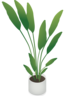
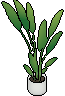
fix plant asset, decorate room

Changed region(s): [[0.0, 0.0, 0.9846, 1.0], [0.4308, 0.9375, 0.4615, 0.9688]]

diff --git a/game/app/server/models/FoyerRoomDecorator.js b/game/app/server/models/FoyerRoomDecorator.js
@@ -19,7 +19,8 @@ module.exports = class FoyerRoomDecorator extends RoomDecorator {
         "leftschedule_default0": "client/assets/walls/schedule1.png",
         "leftschedule_default1": "client/assets/walls/schedule2.png",
         "leftschedule_default2": "client/assets/walls/schedule3.png",
-        "rightwindow_default": "client/assets/windows/right_small_window_default.png",
+        "rightwindow_default0": "client/assets/windows/right_small_window_default0.png",
+        "rightwindow_default1": "client/assets/windows/right_small_window_default1.png",
         "leftconferencelogo_default0": "client/assets/logos/conferencelogo1.png",
         "leftconferencelogo_default1": "client/assets/logos/conferencelogo2.png",
         "leftconferencelogo_default2": "client/assets/logos/conferencelogo3.png",
@@ -84,7 +85,7 @@ module.exports = class FoyerRoomDecorator extends RoomDecorator {
 
         });
 
-        listOfGameObjects.push(objService.createPlant(Settings.FOYER_ID, this.#room.getWidth() - 1, 0, true));
+        listOfGameObjects.push(objService.createPlant(Settings.FOYER_ID, this.#room.getLength() - 1, 0, true));
 
         let conferenceLogos = objService.createLeftConferenceLogo(Settings.FOYER_ID, 1, 5, 14, -1, false);
         conferenceLogos.forEach(conferenceLogo => {
@@ -92,9 +93,11 @@ module.exports = class FoyerRoomDecorator extends RoomDecorator {
         });
 
         for (i = 0; i <= 1; i++) {
-            listOfGameObjects.push(objService.createRightWindow(Settings.FOYER_ID, 1, 1, this.#room.getLength(), i, false))
+            listOfGameObjects.push(objService.createRightWindowDefault0(Settings.FOYER_ID, 1, 1, this.#room.getLength(), i, false))
         }
 
+        listOfGameObjects.push(objService.createRightWindowDefault1(Settings.FOYER_ID, 1, 1, this.#room.getLength(), this.#room.getWidth() - 2, false))
+ 
         let wallFrames = objService.createRightWallFrame(Settings.FOYER_ID, 1, 3, this.#room.getLength(), 9, false);
         wallFrames.forEach(wallFrame => {
             listOfGameObjects.push(wallFrame);

diff --git a/game/app/server/models/FoodcourtRoomDecorator.js b/game/app/server/models/FoodcourtRoomDecorator.js
@@ -15,7 +15,7 @@ module.exports = class FoodcourtRoomDecorator extends RoomDecorator {
         "leftwall_default": "client/assets/walls/wall1.png",
         "rightwall_default": "client/assets/walls/wall2.png",
         "leftfoyerdoor_default": "client/assets/doors/door_foyer.png",
-        "rightwindow_default": "client/assets/windows/right_small_window_default.png",
+        "rightwindow_default0": "client/assets/windows/right_small_window_default0.png",
         "leftconferencelogo_default0": "client/assets/logos/conferencelogo1.png",
         "leftconferencelogo_default1": "client/assets/logos/conferencelogo2.png",
         "leftconferencelogo_default2": "client/assets/logos/conferencelogo3.png",
@@ -71,7 +71,7 @@ module.exports = class FoodcourtRoomDecorator extends RoomDecorator {
 
         for (i = 3; i <= 4; i++) {
             for (j = 0; j <= 5; j += 5) {
-                listOfGameObjects.push(objService.createRightWindow(Settings.FOYER_ID, 1, 1, this.#room.getLength(), i + j, false))
+                listOfGameObjects.push(objService.createRightWindowDefault0(Settings.FOYER_ID, 1, 1, this.#room.getLength(), i + j, false))
             }
         }
 

diff --git a/game/app/server/models/ReceptionRoomDecorator.js b/game/app/server/models/ReceptionRoomDecorator.js
@@ -16,7 +16,7 @@ module.exports = class ReceptionRoomDecorator extends RoomDecorator {
         "leftwall_default": "client/assets/walls/wall1.png",
         "rightwall_default": "client/assets/walls/wall2.png",
         "leftfoyerdoor_default": "client/assets/doors/door_foyer.png",
-        "rightwindow_default": "client/assets/windows/right_small_window_default.png",
+        "rightwindow_default0": "client/assets/windows/right_small_window_default0.png",
         "leftconferencelogo_default0": "client/assets/logos/conferencelogo1.png",
         "leftconferencelogo_default1": "client/assets/logos/conferencelogo2.png",
         "leftconferencelogo_default2": "client/assets/logos/conferencelogo3.png",
@@ -72,7 +72,7 @@ module.exports = class ReceptionRoomDecorator extends RoomDecorator {
         });
 
         for (i = 5; i < this.#room.getWidth() - 5; i++) {
-            listOfGameObjects.push(objService.createRightWindow(Settings.FOYER_ID, 1, 1, this.#room.getLength(), i, false))
+            listOfGameObjects.push(objService.createRightWindowDefault0(Settings.FOYER_ID, 1, 1, this.#room.getLength(), i, false))
         }
 
         //Get all npcs from service

diff --git a/game/app/server/services/GameObjectService.js b/game/app/server/services/GameObjectService.js
@@ -100,9 +100,14 @@ module.exports = class GameObjectService {
     }
 
     //Window
-    createRightWindow(roomId, width, length, xPos, yPos, solidity) {
+    createRightWindowDefault0(roomId, width, length, xPos, yPos, solidity) {
         this.checkParamTypes(roomId, width, length, xPos, yPos, solidity);
-        return new GameObject(this.#generateGameObjectID(), GameObjectType.RIGHTWALL, "rightwindow_default", width, length, new Position(roomId, xPos, yPos), solidity);
+        return new GameObject(this.#generateGameObjectID(), GameObjectType.RIGHTWALL, "rightwindow_default0", width, length, new Position(roomId, xPos, yPos), solidity);
+    }
+
+    createRightWindowDefault1(roomId, width, length, xPos, yPos, solidity) {
+        this.checkParamTypes(roomId, width, length, xPos, yPos, solidity);
+        return new GameObject(this.#generateGameObjectID(), GameObjectType.RIGHTWALL, "rightwindow_default1", width, length, new Position(roomId, xPos, yPos), solidity);
     }
 
     //Wall Frames
